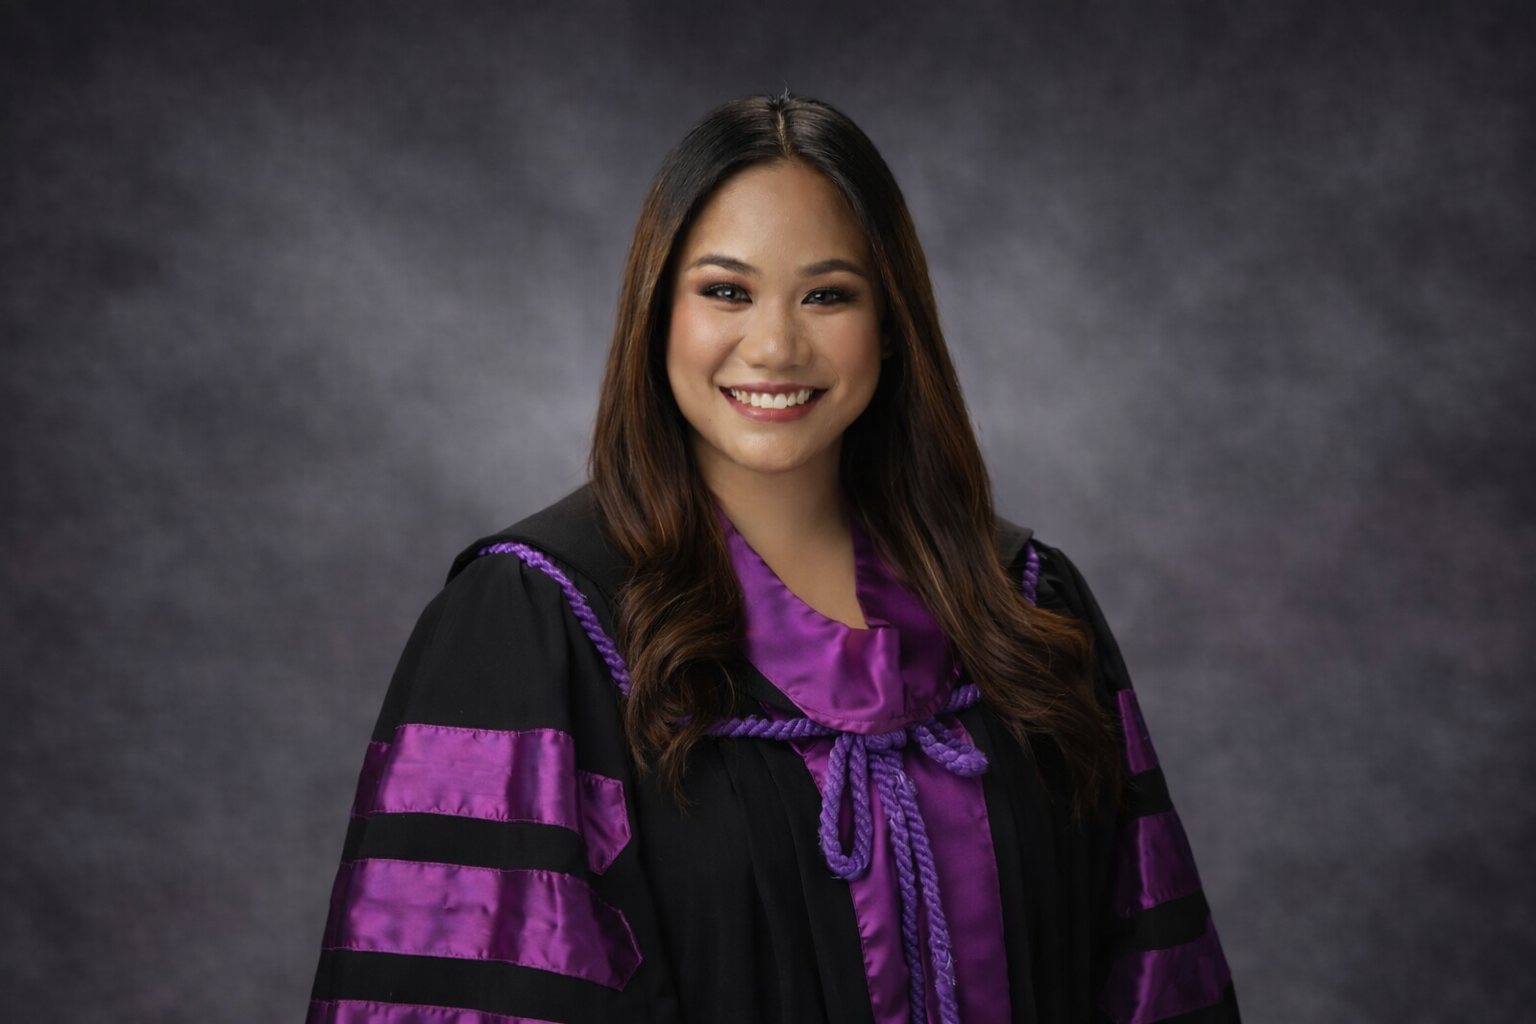
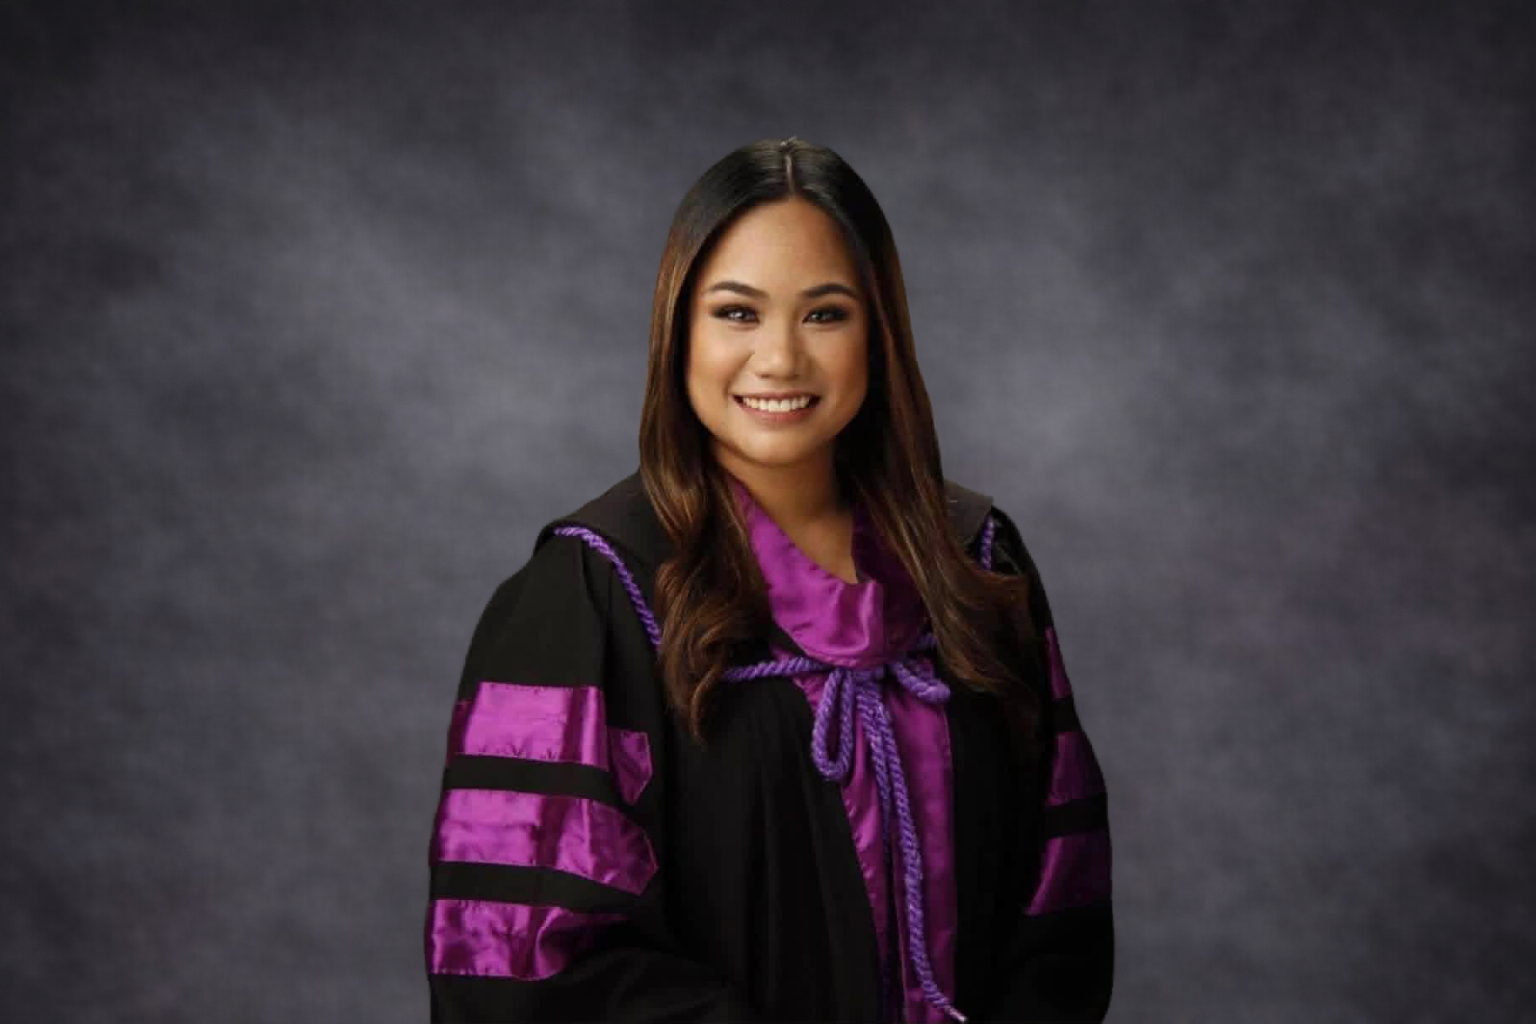
Changes on layouts

Changed region(s): [[0.1875, 0.0938, 0.8125, 1.0]]

diff --git a/index.html b/index.html
@@ -261,7 +261,7 @@
   display: grid;
   grid-template-columns: 1.4fr 1fr 1fr;
   gap: 6px;
-  height: 420px;
+  height: 720px;
   overflow: hidden;
   background: var(--black);
 }
@@ -287,7 +287,7 @@
 }
 .gallery-strip .gitem:hover .glabel { transform: translateY(0); }
 .gallery-strip .gitem.featured img {
-  object-position: top center;
+  object-position: left;
   object-fit: cover;
 }
 .gallery-strip .gitem.featured::after {
@@ -368,8 +368,8 @@
 
 .tour-grid {
   display: grid;
-  grid-template-columns: 1.6fr 1fr 1fr;
-  grid-template-rows: repeat(3, 220px);
+  grid-template-columns: repeat(4, 1fr);
+  grid-template-rows: repeat(2, 260px);
   gap: 12px;
   margin-top: 60px;
 }
@@ -538,14 +538,15 @@
       section, #about, #contact { padding: 70px 24px; }
       #hero .hero-content { padding: 0 24px 70px; }
       #about, #contact { grid-template-columns: 1fr; gap: 50px; }
-  .tour-grid {
+
+        .tour-grid {
     grid-template-columns: 1fr;
-    grid-template-rows: repeat(7, 240px);
+    grid-template-rows: repeat(8, 240px);
   }
 
-  .tour-item.span-col {
-    grid-row: span 1;
-  }
+      .tour-item.span-col {
+        grid-row: span 1;
+      }
       .gallery-strip { grid-template-columns: repeat(3, 1fr); height: 240px; }
       .gallery-strip .gitem:nth-child(4),
       .gallery-strip .gitem:nth-child(5) { display: none; }
@@ -586,7 +587,7 @@
   <div class="hero-content">
     <!-- <div class="hero-eyebrow">Limited Time — Big Discount on Selected Services</div> -->
     <h1 class="hero-h1">Your smile,<br/><em>our expertise.</em></h1>
-    <p class="hero-sub">Experience comfortable, quality, and patient-centered dental care in a space designed for your well-being.</p>
+    <p class="hero-sub">Experience comfortable, quality, and patient-centered dental care in a modern dental space designed with you in mind.</p>
     <div class="hero-actions">
       <a href="#contact" class="btn-gold">Book Appointment</a>
       <a href="#services" class="btn-outline">View Services</a>
@@ -640,7 +641,7 @@
 <!-- ── GALLERY STRIP ── -->
 <div class="gallery-strip">
   <div class="gitem featured">
-    <img src="DocMain.png" alt="Dr. Ilagan"/>
+    <img src="DocPic1.jpg" alt="Dr. Ilagan"/>
     <div class="glabel">A Proud Achievement</div>
   </div>
   <div class="gitem">
@@ -882,7 +883,11 @@
   <div class="section-label reveal">The Clinic</div>
   <h2 class="section-title reveal reveal-delay-1">Designed for your<br/><em>comfort.</em></h2>
   <div class="tour-grid">
-    <div class="tour-item span-col reveal">
+    <div class="tour-item reveal">
+      <img src="FrontDoorStep.jpg" alt="Dr. Margot Gail M. Ilagan Dental Clinic"/>
+      <div class="tour-caption">Dr. Margot Gail M. Ilagan Dental Clinic</div>
+    </div>
+    <div class="tour-item reveal">
       <img src="Reception.jpg" alt="Reception"/>
       <div class="tour-caption">Reception</div>
     </div>
@@ -895,8 +900,8 @@
       <div class="tour-caption">Restroom</div>
     </div>
     <div class="tour-item reveal reveal-delay-1">
-      <img src="Office.jpg" alt="Dentist&apos;s Office"/>
-      <div class="tour-caption">Dentist&apos;s Office</div>
+      <img src="Office.jpg" alt="Dentist&apos;s Desk"/>
+      <div class="tour-caption">Dentist&apos;s Desk</div>
     </div>
     <div class="tour-item reveal reveal-delay-2">
       <img src="moderndentalunit.jpg" alt="Modern Dental Unit"/>
